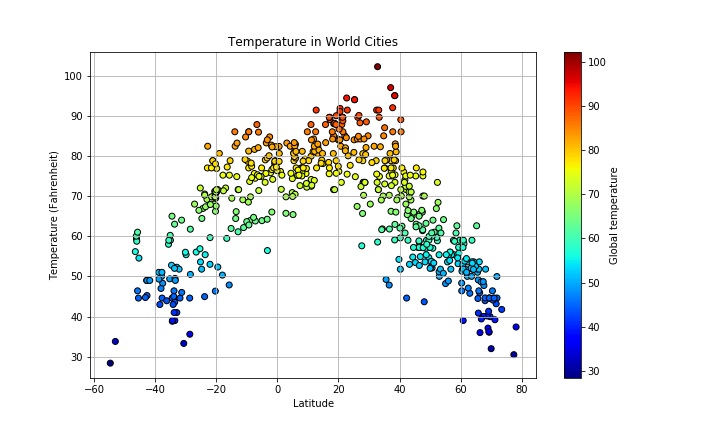
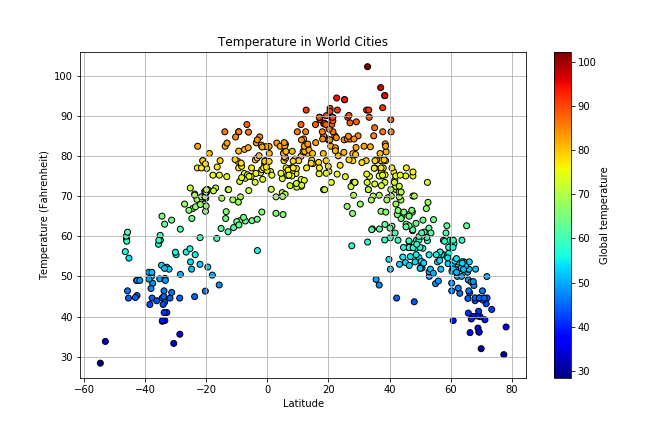
added summary text and resized images

diff --git a/WebVisualizations/landingpage.html b/WebVisualizations/landingpage.html
@@ -15,8 +15,8 @@
 </head>
 
 <body>
-<div class="bg img-fluid">
-  <nav class="navbar navbar-expand-lg navbar-light bg-light">
+  <div class="bg img-fluid">
+  <nav class="navbar navbar-expand-lg navbar-dark bg-dark fixed-top" role="navigation">
     <a class="navbar-brand" href="#">API Challenge</a>
     <button class="navbar-toggler" type="button" data-toggle="collapse" data-target="#navbarNavDropdown" aria-controls="navbarNavDropdown" aria-expanded="false" aria-label="Toggle navigation">
       <span class="navbar-toggler-icon"></span>
@@ -46,13 +46,20 @@
       </ul>
     </div>
   </nav>
-  <br>
   <div class="container">
     <div class="row">
-      <h1 class="col-md-8">What's the Weather Like?</h1>
+      <h1 class="col-md-8 offset-md-1"><br>
+      </h1>
     </div>
     <div class="row">
-      <div class="col-md-8 ">Summary:
+      <div class="col-xs-4 col-sm-6 col-md-8 col-lg-8 ">
+        <h1>
+          Python API Summary:</h1>
+        <div class="image-wrapper float-left pr-3 w-50">
+          <img src="../assets/heatmap.png" alt="" class="img-fluid img-thumbnail">
+        </div>
+        <p>
+          What's the Weather Like?</p>
         <p>
           Whether financial, political, or social -- data's true power lies in its ability to answer questions definitively. So let's take what you've learned about Python requests, APIs, and JSON traversals to answer a fundamental question: "What's the weather like as we approach the equator?"</p>
         <p>
@@ -72,19 +79,19 @@
         </p>
           
       </div>
-      <div class="col-xs-2 col-sm-2 col-md-4 col-lg-4 center">visualizations
+      <div class="col-xs-2 col-sm-2 col-md-4 col-lg-4">
+        <h3>Visualizations</h3>
         <picture>
           <!-- <source srcset="../assets/TemperatureInWorldCities.png" type="image/svg+xml"> -->
-          <a href="../visualizations/maxtemp.html" alt="temp plot" ><img src="../assets/TemperatureInWorldCities.png" target='_blank' class="img-fluid img-thumbnail"></a>
-          <a href="../visualizations/humidity.html" alt="humid plot" ><img src="../assets/HumidityInWorldCities.png" alt="humid plot" class="img-fluid img-thumbnail"></a>
-          <a href="../visualizations/clouds.html" alt="cloud plot" ><img src="../assets/CloudsInWorldCities.png" alt="cloud plot" class="img-fluid img-thumbnail"></a>
-          <a href="../visualizations/wind.html" alt="wind plot" ><img src="../assets/windInWorldCities.png" alt="wind plot" class="img-fluid img-thumbnail"></a>
+          <a href="../visualizations/maxtemp.html" alt="temp plot" ><img src="../assets/TemperatureInWorldCities.png" target='_blank' class="img-fluid img-thumbnail float-left w-50"></a>
+          <a href="../visualizations/humidity.html" alt="humid plot" ><img src="../assets/HumidityInWorldCities.png" alt="humid plot" class="img-fluid img-thumbnail float-right w-50"></a>
+          <a href="../visualizations/clouds.html" alt="cloud plot" ><img src="../assets/CloudsInWorldCities.png" alt="cloud plot" class="img-fluid img-thumbnail float-left w-50"></a>
+          <a href="../visualizations/wind.html" alt="wind plot" ><img src="../assets/windInWorldCities.png" alt="wind plot" class="img-fluid img-thumbnail float-right w-50"></a>
         </picture>
       </div>
     </div>
   </div>
-
-</div>
+  </div>
 </body>
 
 </html>

diff --git a/WebVisualizations/bkgrd.css b/WebVisualizations/bkgrd.css
@@ -10,4 +10,14 @@ body, html {
     background-position: center;
     background-repeat: no-repeat;
     background-size: cover;
+    background-attachment: fixed;
+    /* overflow: hidden; */
+}
+
+.stay {
+    position: fixed;
+}
+
+.pad{
+    margin-top: 50px;
 }
